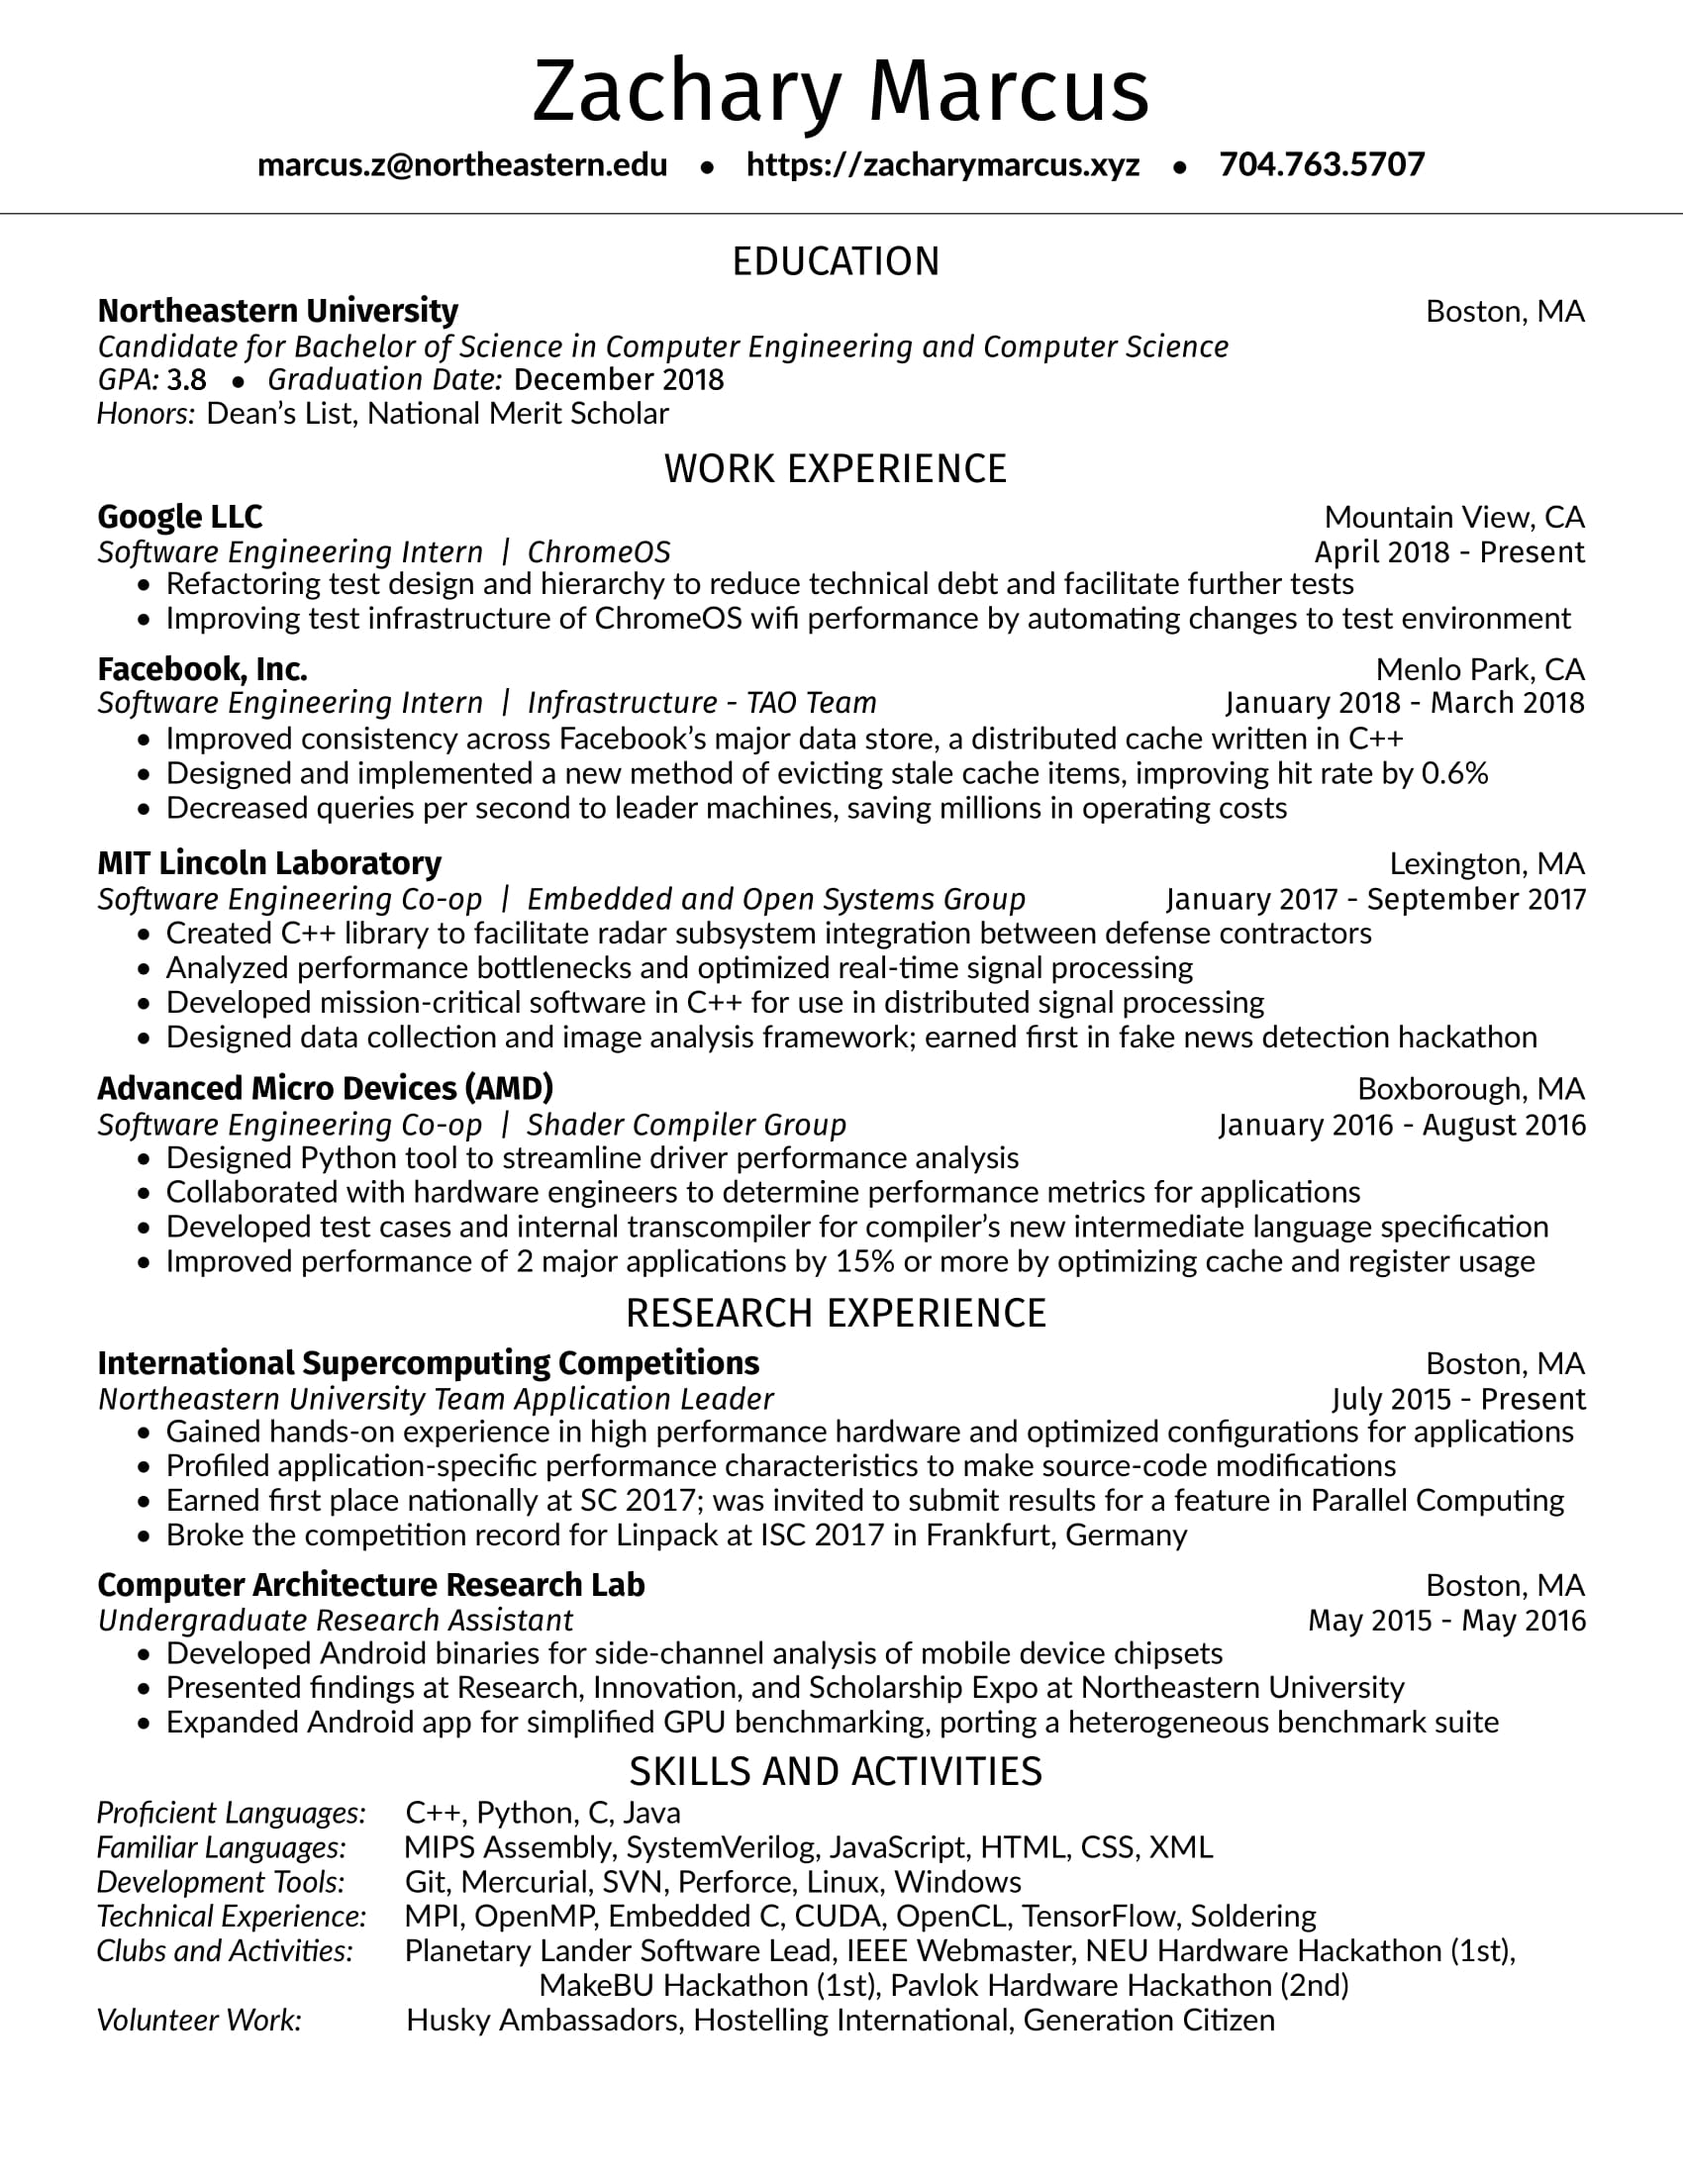
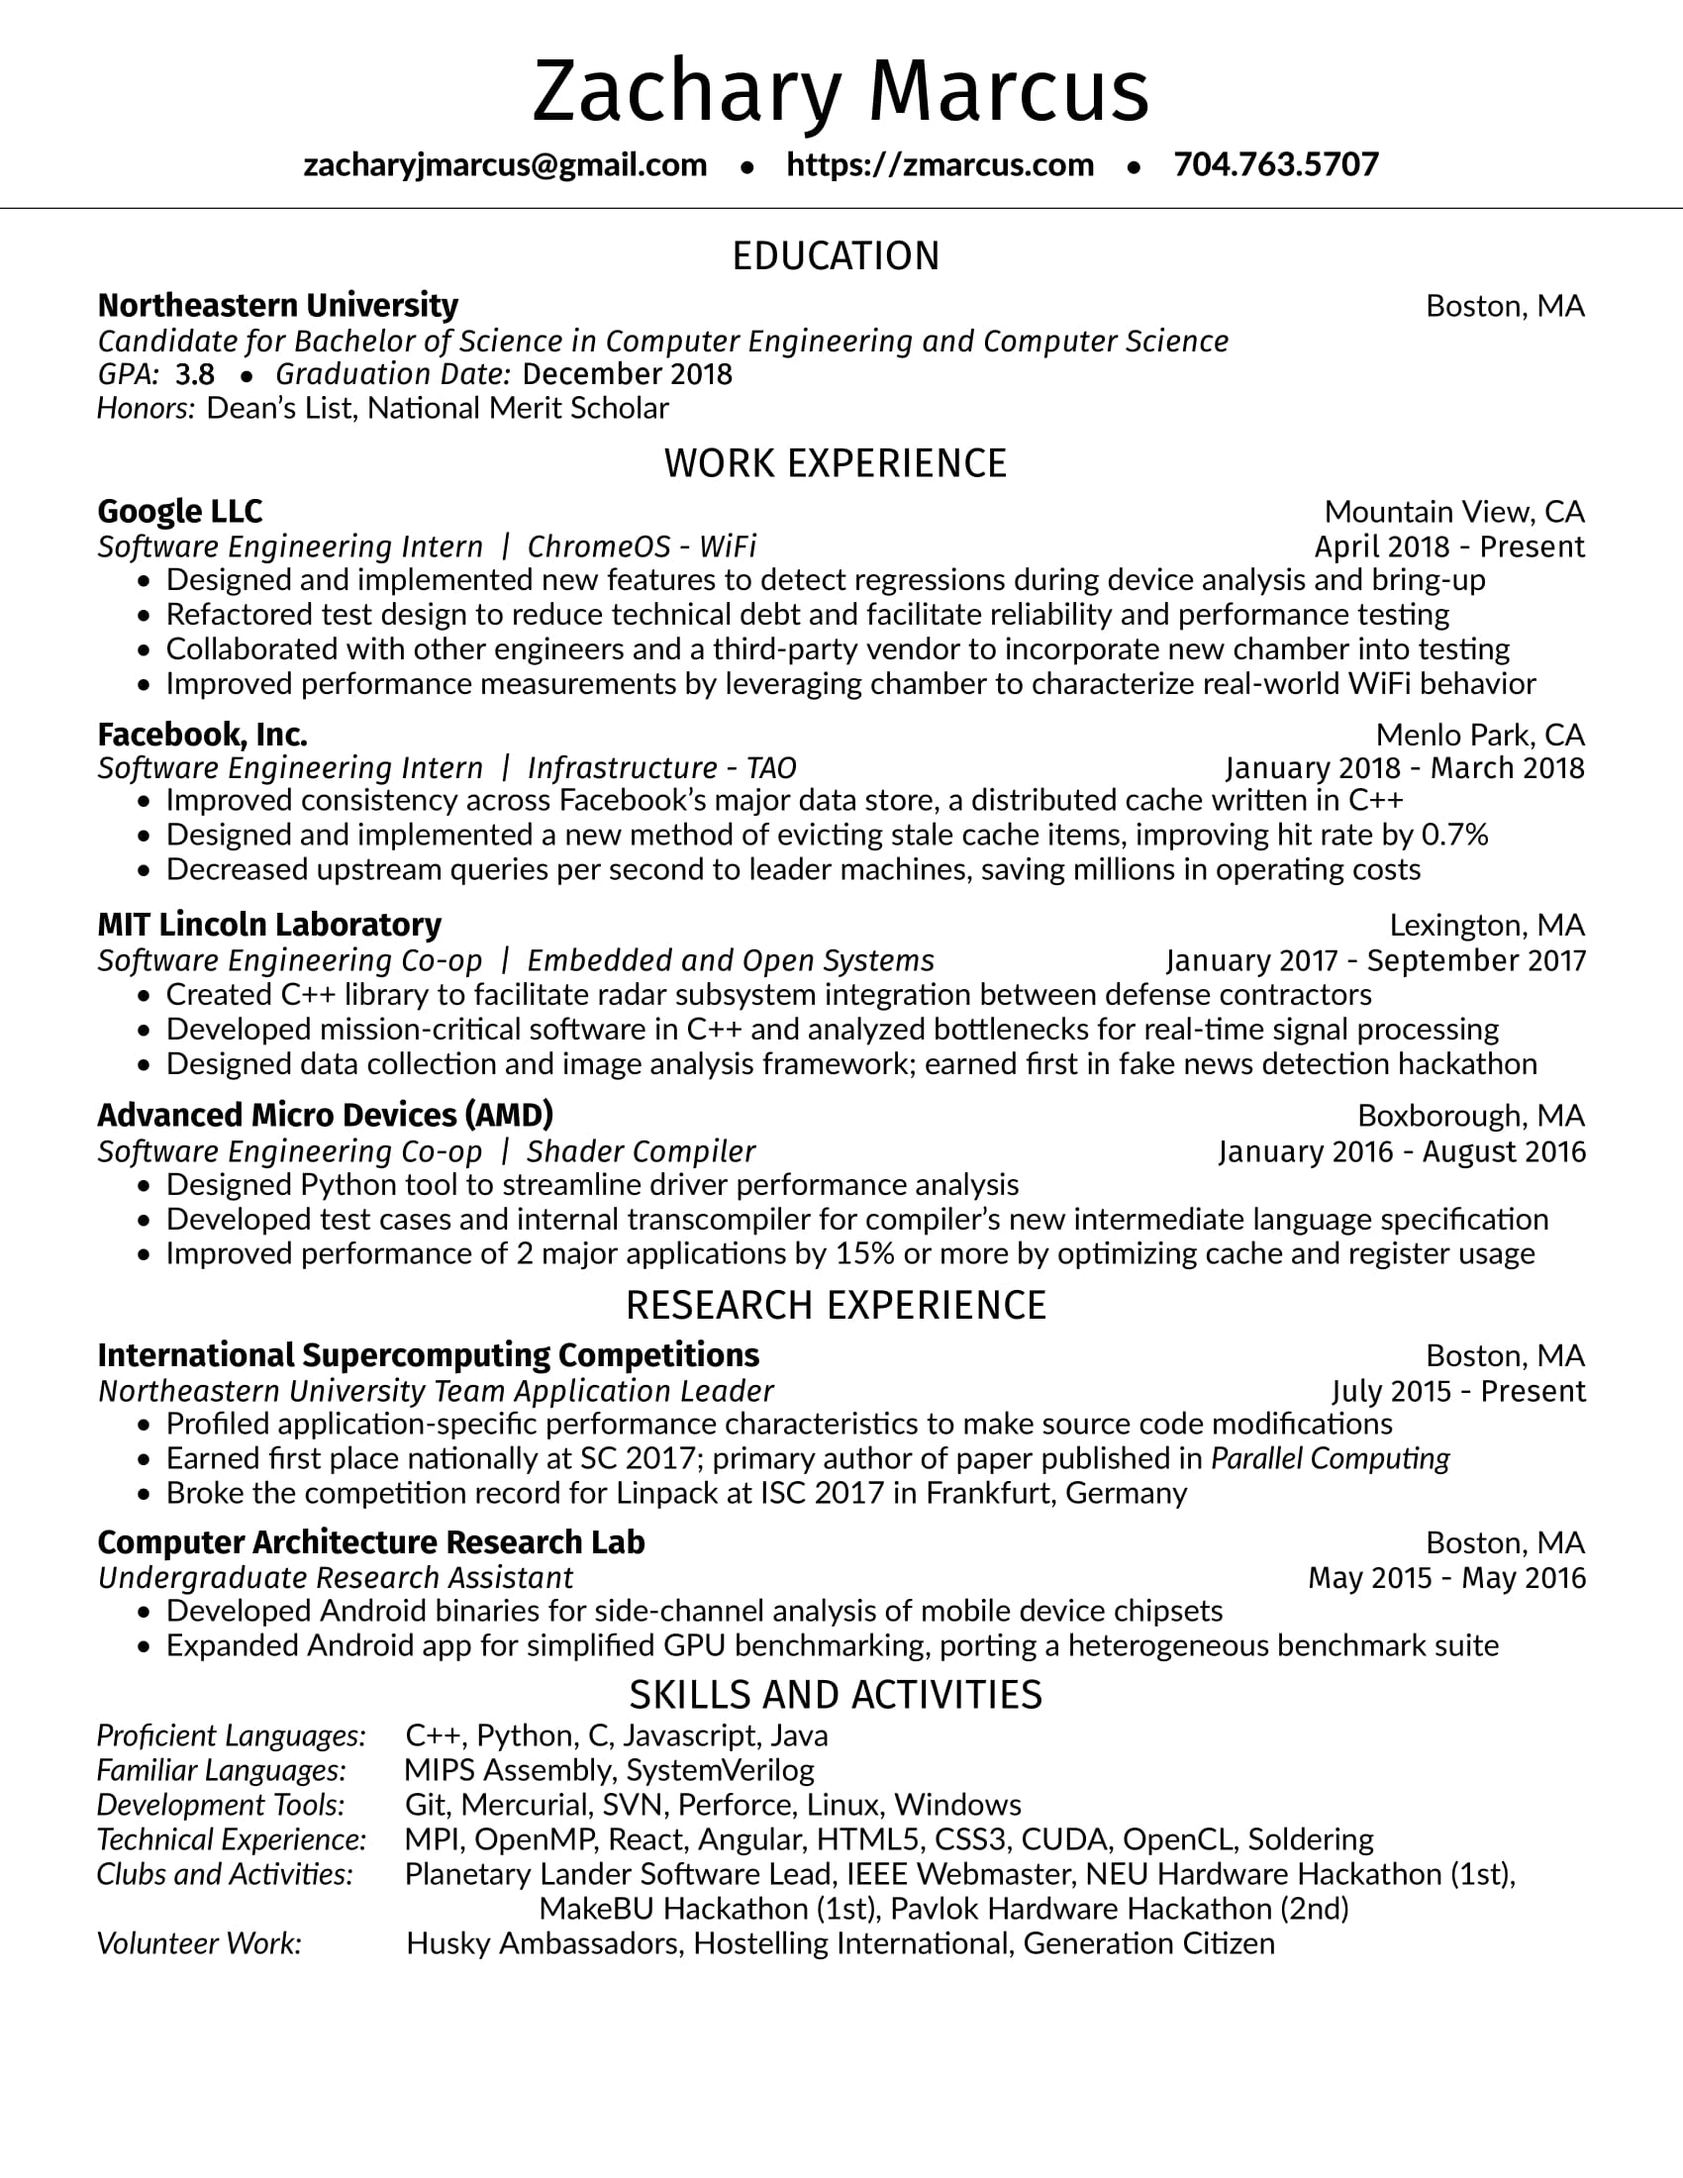
updated to newest version

Changed region(s): [[0.0624, 0.1236, 0.9353, 0.9273], [0.1559, 0.0618, 0.8418, 0.1236], [0.8418, 0.1236, 0.9353, 0.1545]]

diff --git a/main.tex b/main.tex
@@ -15,7 +15,7 @@
 
 
 \documentclass[]{resume-style}
-\title{zachary-marcus-resume-new}
+\title{zachary-marcus-resume}
 
 % - For colored links - 
 %\hypersetup{colorlinks}
@@ -28,17 +28,18 @@
 
 \namesection{}{Zachary Marcus}{
 \vspace{-0.5mm}
-\bf{\href{mailto:marcus.z@northeastern.edu}{marcus.z@northeastern.edu}}
+\bf{\href{mailto:zacharyjmarcus@gmail.com}{zacharyjmarcus@gmail.com}}
 \hspace{3 mm}$\bullet$\hspace{3 mm}
-\bf{\urlstyle{same}\url{https://zacharymarcus.xyz}}
+\bf{\urlstyle{same}\url{https://zmarcus.com}}
 \hspace{3 mm}$\bullet$\hspace{3 mm}
 \bf{704.763.5707}
 \\
-\vspace{0.7mm}
-%\bf{Available for full-time positions May 2019}
+%\vspace{0.7mm}
 %\contournumber{1}
-%\contour{headings}{Available for computer engineering internship positions for January - June 2018} \\
-}
+%\contour{headings}{Seeking full-time positions May 2019} \\
+%\contour{headings}{Seeking full-time software engineering role at Facebook for 2019} \\
+%\contour{headings}{Seeking full-time software engineering role at Google for 2019} \\
+} % end namesection
 
 \smallskip
 
@@ -52,7 +53,9 @@
 \about{Candidate for Bachelor of Science in Computer Engineering and Computer Science}{} \\
 \vspace{0.25mm}
 \contournumber{3} % Print out contour 4 times on top of one another
-\textit{G\hspace{0.01mm}P\hspace{0.03mm}A\hspace{0.02mm}:  }\contour{subheadings}{3.8}
+% GPA letters seemed to be spaced out funny, manually adding space
+\textit{G\hspace{0.01mm}P\hspace{0.03mm}A\hspace{0.02mm}:  }
+\contour{subheadings}{3.8}
 \hspace{2mm}$\bullet$\hspace{2.75mm}\contournumber{1}\textit{Graduation Date:} \contour{subheadings}{December 2018}
 \vspace{0.8mm}
 
@@ -71,39 +74,37 @@
 \section{\hfill Work Experience \hfill}
 
 \runsubsection{Google LLC}{Mountain View, CA}
-\about{Software Engineering Intern\hspace{2mm}|\hspace{2mm}ChromeOS}{April 2018 - Present} \\
+\about{Software Engineering Intern\hspace{2mm}|\hspace{2mm}ChromeOS - WiFi}{April 2018 - Present} \\
 \vspace{0.5mm}
 \begin{tightemize}
-\vspace{-0.1mm}
-\item Refactoring test design and hierarchy to reduce technical debt and facilitate further tests
-\item Improving test infrastructure of ChromeOS wifi performance by automating changes to test environment
+\vspace{0.1mm}
+\item Designed and implemented new features to detect regressions during device analysis and bring-up
+\item Refactored test design to reduce technical debt and facilitate reliability and performance testing
+\item Collaborated with other engineers and a third-party vendor to incorporate new chamber into testing
+\item Improved performance measurements by leveraging chamber to characterize real-world WiFi behavior
 \end{tightemize}
 %------------------------------------------------
 \vspace{2mm}
 \runsubsection{Facebook, Inc.}{Menlo Park, CA}
 \vspace{0.25mm}
-\about{Software Engineering Intern\hspace{2mm}|\hspace{2mm}Infrastructure - TAO Team}{January 2018 - March 2018} \\
-\vspace{2mm}
+\about{Software Engineering Intern\hspace{2mm}|\hspace{2mm}Infrastructure - TAO}{January 2018 - March 2018} \\
+\vspace{1.5mm}
 \begin{tightemize}
 \vspace{-1.0mm}
 \item Improved consistency across Facebook's major data store, a distributed cache written in C++
-\item Designed and implemented a new method of evicting stale cache items, improving hit rate by 0.6\%
-\item Decreased queries per second to leader machines, saving millions in operating costs
+\item Designed and implemented a new method of evicting stale cache items, improving hit rate by 0.7\%
+\item Decreased upstream queries per second to leader machines, saving millions in operating costs
 \end{tightemize}
 
 %------------------------------------------------
 \vspace{2mm}
 \runsubsection{MIT Lincoln Laboratory}{Lexington, MA}
-\about{Software Engineering Co-op\hspace{2mm}|\hspace{2mm}Embedded and Open Systems Group}{January 2017 - September 2017}
+\about{Software Engineering Co-op\hspace{2mm}|\hspace{2mm}Embedded and Open Systems}{January 2017 - September 2017}
 \vspace{-1.35mm}
 \begin{tightemize}
 \vspace{\topsep} % Hacky fix for awkward extra vertical space
 \item Created C++ library to facilitate radar subsystem integration between defense contractors
-\item Analyzed performance bottlenecks and optimized real-time signal processing
-\item Developed mission-critical software in C++ for use in distributed signal processing
-%\item Leveraged open communication libraries to achieve high performance across platforms
-%\item Designed data collection framework in Python to gather gigabytes of data from news articles
-%\item Leveraged TensorFlow and image-processing libraries; earned first in fake news detection hackathon
+\item Developed mission-critical software in C++ and analyzed bottlenecks for real-time signal processing
 \item Designed data collection and image analysis framework; earned first in fake news detection hackathon
 \end{tightemize}
 
@@ -111,12 +112,11 @@
 \vspace{2mm}
 \runsubsection{Advanced Micro Devices (AMD)}{Boxborough, MA}
 \vspace{0.65mm}
-\about{Software Engineering Co-op\hspace{2mm}|\hspace{2mm}Shader Compiler Group}{January 2016 - August 2016}
+\about{Software Engineering Co-op\hspace{2mm}|\hspace{2mm}Shader Compiler}{January 2016 - August 2016}
 \vspace{1.28mm}
 \begin{tightemize}
 %\vspace{\topsep} % Hacky fix for awkward extra vertical space
 \item Designed Python tool to streamline driver performance analysis
-\item Collaborated with hardware engineers to determine performance metrics for applications
 \item Developed test cases and internal transcompiler for compiler's new intermediate language specification
 \item Improved performance of 2 major applications by 15\% or more by optimizing cache and register usage%used in production by millions % 50 million = XBOX1 + PS4 sales
 \end{tightemize}
@@ -129,9 +129,8 @@
 \about{Northeastern University Team Application Leader}{July 2015 - Present}
 \vspace{1.25mm}
 \begin{tightemize}
-\item Gained hands-on experience in high performance hardware and optimized configurations for applications
-\item Profiled application-specific performance characteristics to make source-code modifications
-\item Earned first place nationally at SC 2017; was invited to submit results for a feature in Parallel Computing
+\item Profiled application-specific performance characteristics to make source code modifications
+\item Earned first place nationally at SC 2017; primary author of paper published in \textit{Parallel Computing}
 \item Broke the competition record for Linpack at ISC 2017 in Frankfurt, Germany
 \end{tightemize}
 
@@ -144,7 +143,6 @@
 %\fontsize{11pt}{11pt}
 %\vspace{\topsep} % Hacky fix for awkward extra vertical space
 \item Developed Android binaries for side-channel analysis of mobile device chipsets
-\item Presented findings at Research, Innovation, and Scholarship Expo at Northeastern University
 \item Expanded Android app for simplified GPU benchmarking, porting a heterogeneous benchmark suite
 \end{tightemize}
 
@@ -153,10 +151,10 @@
 \vspace{3.1mm}
 \begin{tightemize}
 %\fontsize{11pt}{11pt}
-\skill{Proficient Languages:}{\hspace{5mm}C++, Python, C, Java}
-\skill{Familiar Languages:}{\hspace{7.29mm}MIPS Assembly, SystemVerilog, JavaScript, HTML, CSS, XML}
+\skill{Proficient Languages:}{\hspace{5mm}C++, Python, C, Javascript, Java}
+\skill{Familiar Languages:}{\hspace{7.29mm}MIPS Assembly, SystemVerilog}
 \skill{Development Tools:}{\hspace{7.68mm}Git, Mercurial, SVN, Perforce, Linux, Windows}
-\skill{Technical Experience:}{\hspace{3.4mm} MPI, OpenMP, Embedded C, CUDA, OpenCL, TensorFlow, Soldering}
+\skill{Technical Experience:}{\hspace{3.4mm} MPI, OpenMP, React, Angular, HTML5, CSS3, CUDA, OpenCL, Soldering}
 \skill{Clubs and Activities:}{\hspace{6.52mm}Planetary Lander Software Lead, IEEE Webmaster, NEU Hardware Hackathon (1st),}
 \skill{}{\hspace{56.8mm}MakeBU Hackathon (1st), Pavlok Hardware Hackathon (2nd)}
 %Boston-area pub crawl leader? Working proficiency in Spanish?
@@ -164,5 +162,6 @@
 \end{tightemize}
 
 \end{document}  \documentclass[]{article}
+
 
 
